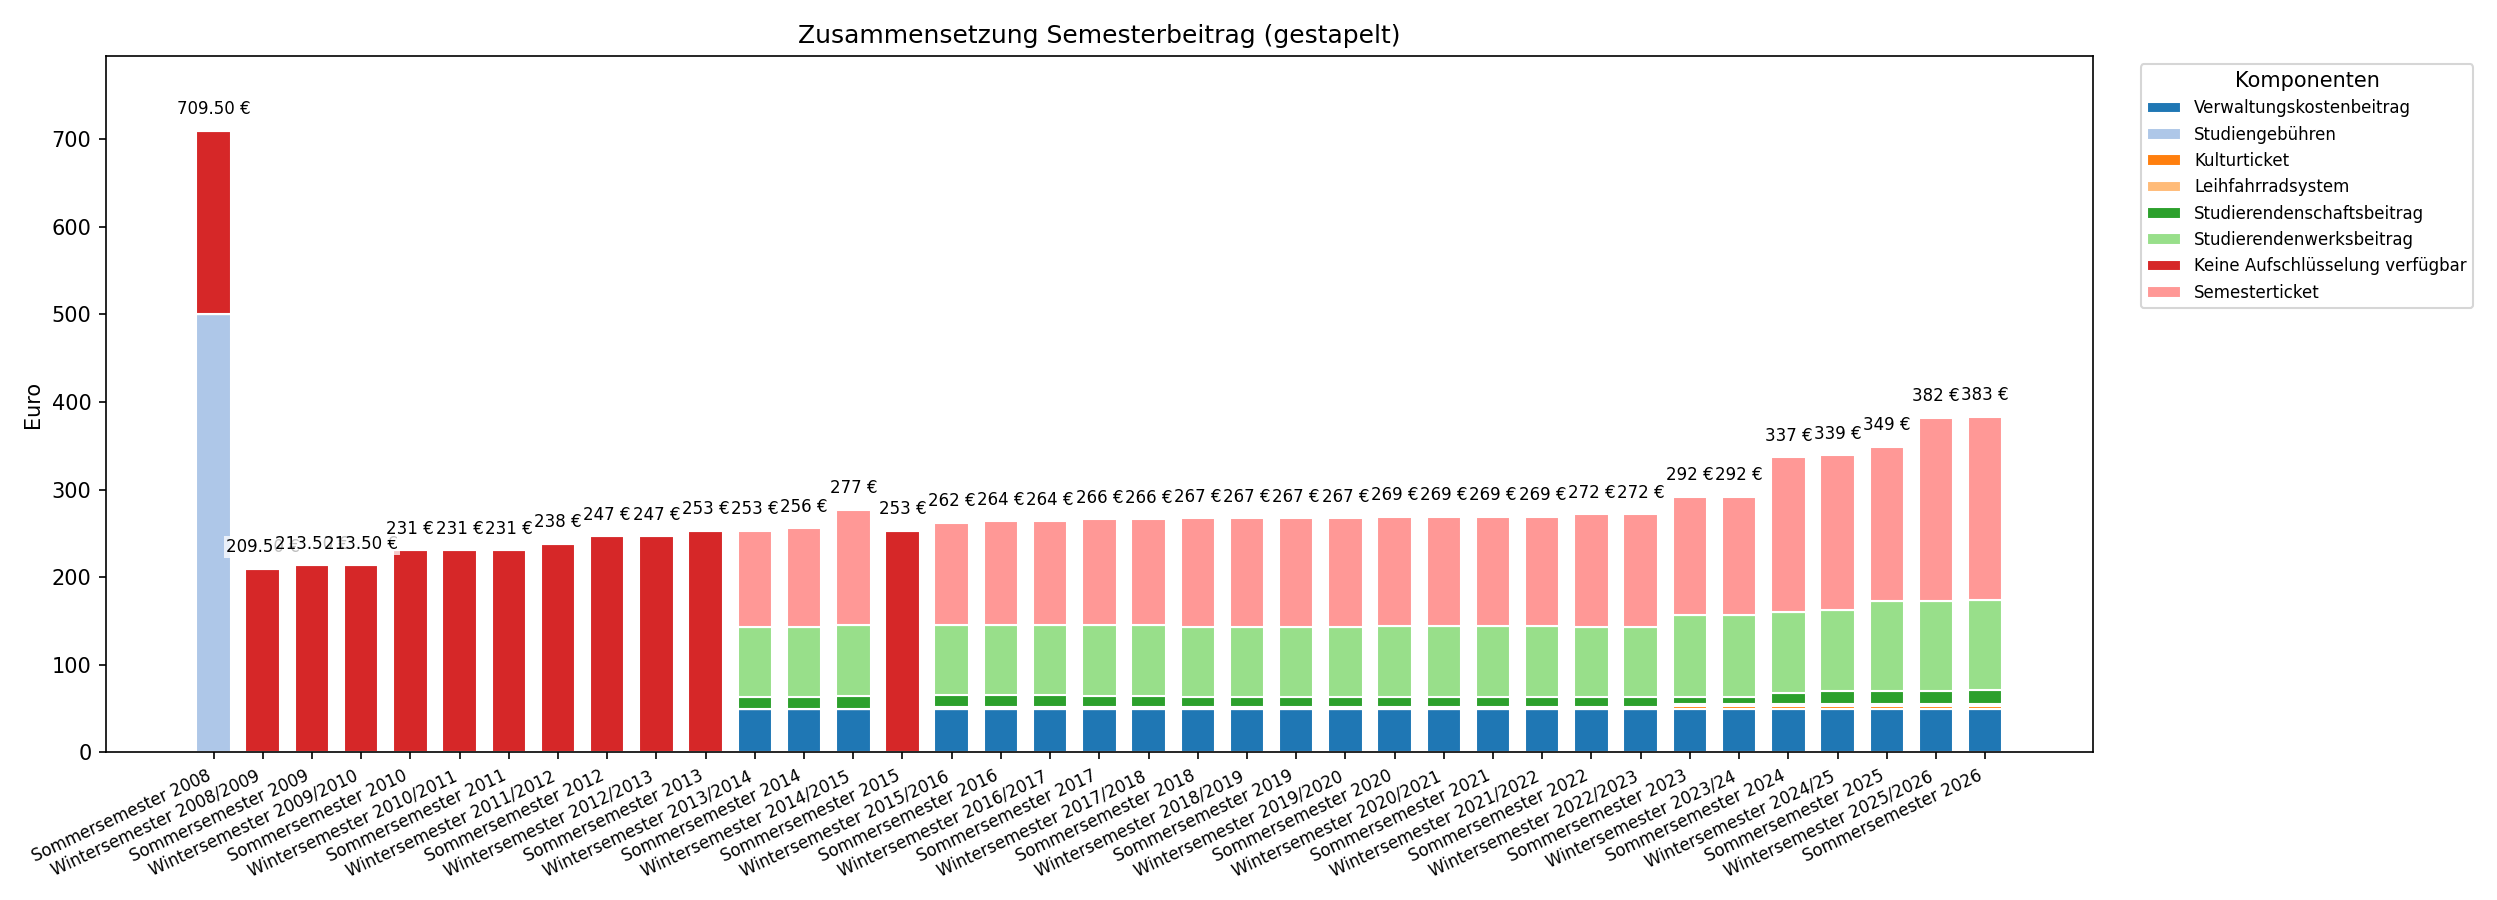
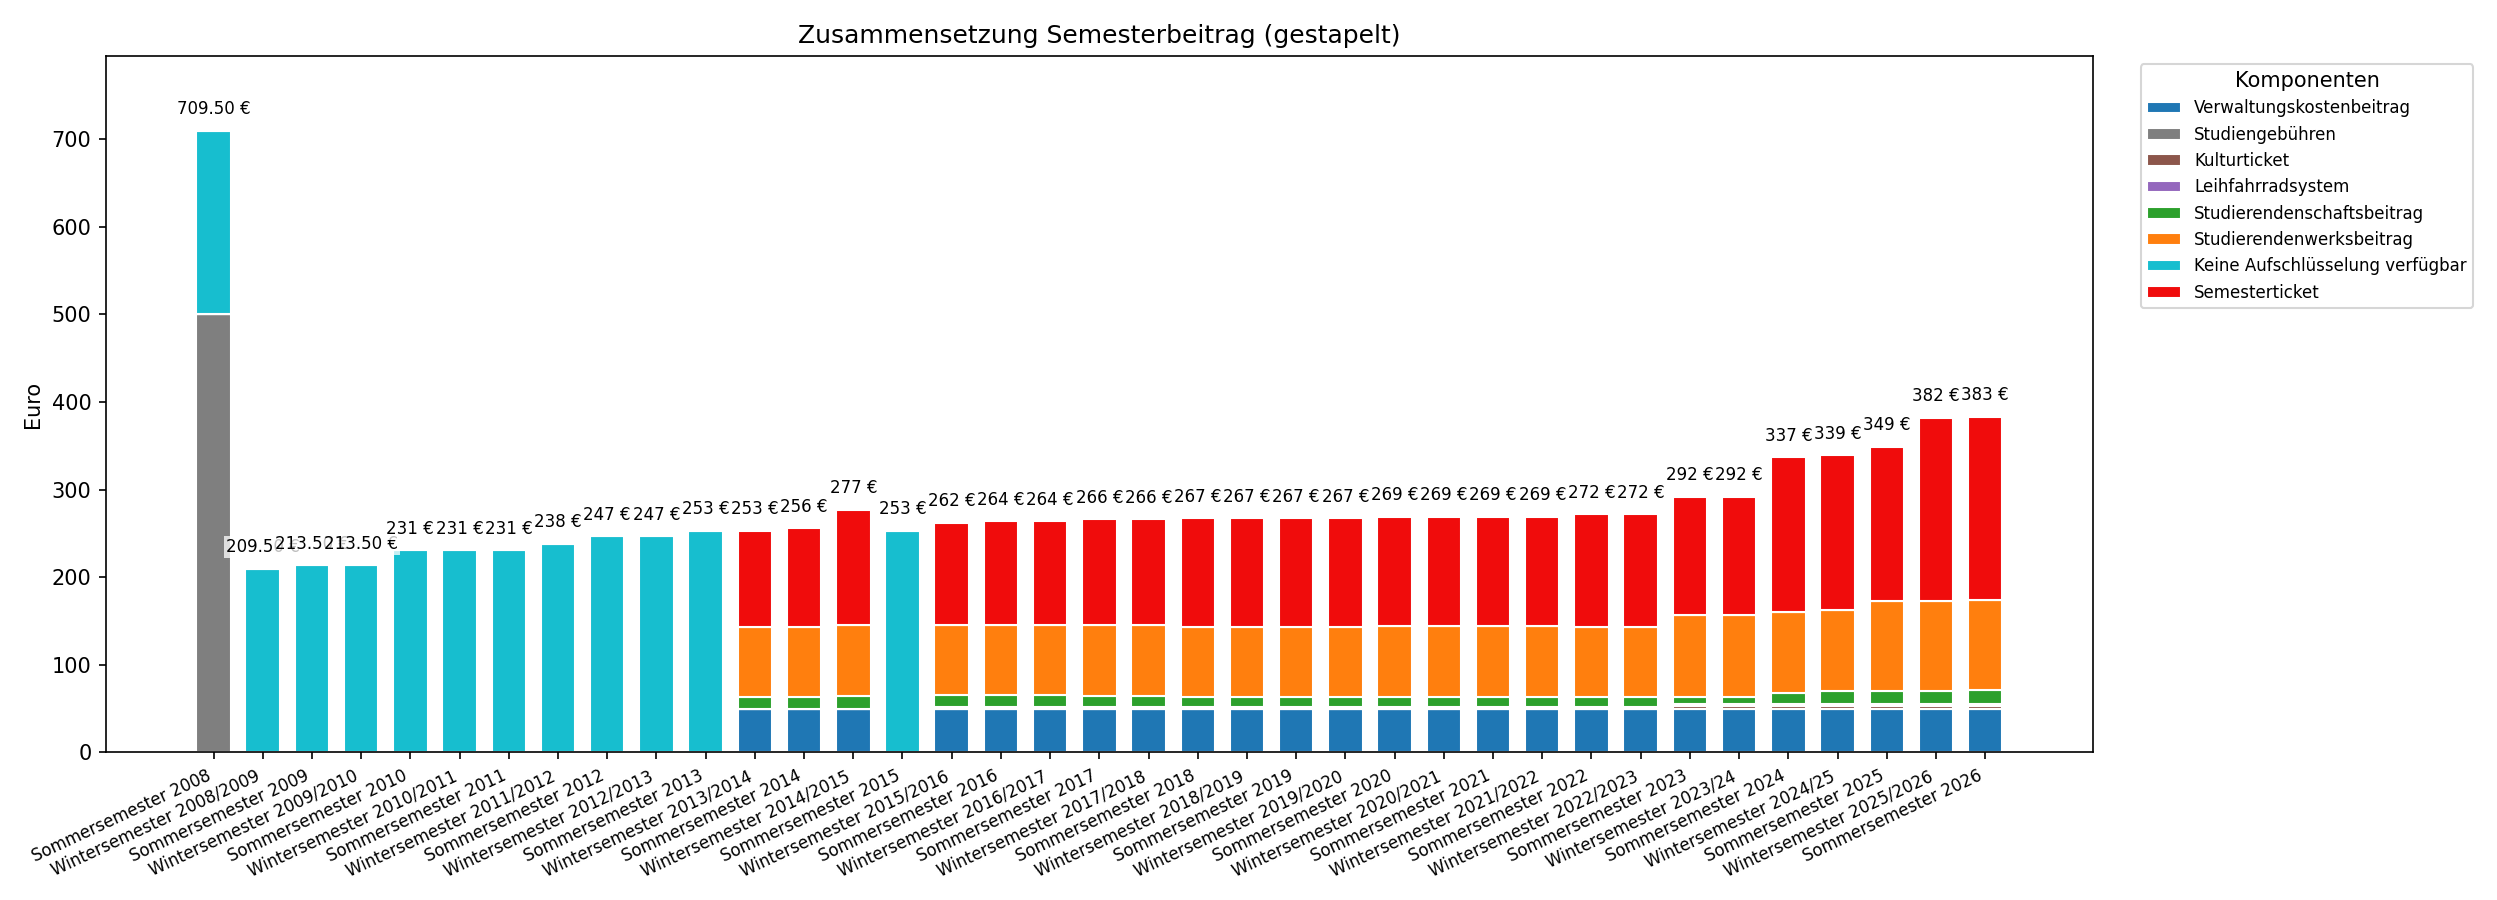
add color mapping for components in plots edit readme rename main file

Changed region(s): [[0.0625, 0.1244, 0.8122, 0.84], [0.8434, 0.2489, 0.8746, 0.3422], [0.8434, 0.1244, 0.8746, 0.2178]]

diff --git a/generate_plot.py b/generate_plot.py
@@ -2,7 +2,6 @@ import os
 import json
 import re
 import matplotlib.pyplot as plt
-import itertools
 from datetime import datetime
 
 OUT_DIR = os.path.join(os.path.dirname(__file__), "data")
@@ -10,6 +9,28 @@ HISTORY_PATH = os.path.join(OUT_DIR, "history.json")
 PNG_PATH = os.path.join(OUT_DIR, "semester_plot.png")
 
 EPSILON = 1e-9
+
+COMPONENT_COLORS = {
+    # Hauptelemente mit Aufschlüsselung
+    "Semesterticket": "#f00c0c",  # rot
+    "Studierendenwerksbeitrag": "#ff7f0e",  # orange
+    "Studierendenschaftsbeitrag": "#2ca02c",  # grün
+    "Verwaltungskostenbeitrag": "#1f77b4",  # blau
+    "Leihfahrradsystem": "#9467bd",  # lila
+    "Kulturticket": "#8c564b",  # braun
+
+    # Sonstige / historische Posten
+    "Studiengebühren": "#7f7f7f",  # grau
+    "Keine Aufschlüsselung verfügbar": "#17becf",  # türkis
+}
+
+
+def get_color_for_component(name: str):
+    try:
+        return COMPONENT_COLORS[name]
+    except KeyError:
+        raise KeyError(f"Unbekannte Komponente ohne definierte Farbe: {name!r}. "
+                       f"Bitte eine Farbe in COMPONENT_COLORS hinterlegen.")  # bewusstes Abbrechen
 
 
 def safe_num(v):
@@ -100,7 +121,6 @@ def build_table(entries):
         rows.append({"label": name, "comps": comp_map, "raw": e})
 
     # Bestimme Komponentenreihenfolge anhand von Stabilität (Varianz) und Häufigkeit
-    components_order = []
     if all_names:
         total_rows = max(1, len(rows))
         stats = []
@@ -166,7 +186,7 @@ def format_euro(v):
         return f"{v} €"
 
 
-def plot_and_save(labels, totals, stack_values, components_order, missing_flags):
+def plot_and_save(labels, totals, stack_values, components_order):
     if not labels:
         print("Keine Daten zum Plotten gefunden.")
         return
@@ -176,13 +196,11 @@ def plot_and_save(labels, totals, stack_values, components_order, missing_flags)
 
     plt.figure(figsize=(max(10, len(labels) * 0.45), 6))
     ax = plt.gca()
-    colors = plt.get_cmap("tab20").colors
-    color_cycle = itertools.cycle(colors)
 
     bottom = [0] * len(labels)
     for comp in components_order:
         vals = stack_values[comp]
-        color = next(color_cycle)
+        color = get_color_for_component(comp)
         ax.bar(x, vals, bottom=bottom, color=color, label=comp, edgecolor='white', width=0.7)
         bottom = [bottom[i] + vals[i] for i in range(len(bottom))]
 
@@ -234,7 +252,7 @@ def main():
     entries = load_entries()
     labels, rows, components_order = build_table(entries)
     totals, stack_values, missing_flags = totals_and_stacks(labels, rows, components_order)
-    plot_and_save(labels, totals, stack_values, components_order, missing_flags)
+    plot_and_save(labels, totals, stack_values, components_order)
 
 
 if __name__ == "__main__":

diff --git a/README.md b/README.md
@@ -2,28 +2,15 @@
 
 ![Semesterbeitrag](data/semester_plot.png)
 
-Kurzbeschreibung
-- Dieses Repo scrapt automatisch die Seite der Hochschule Darmstadt (Semesterbeitrag) und speichert:
-  - data/history.json — Zeitreihe (wichtigste Datei)
-  - data/latest.json — Komfort (wird nur aktualisiert, wenn sich Inhalt ändert)
-  - data/<semester-slug>.json — pro Semester (Komfort, wird nur angelegt/überschrieben bei Änderung)
+#### Kurzbeschreibung
+- Scraper für die Semesterbeiträge der Hochschule Darmstadt.
+- Speichert:
+  - data/history.json — Zeitreihe
   - data/semester_plot.png — generierte Visualisierung
 
-Wichtiges Verhalten
-- Pipeline läuft monatlich (cron) und ist manuell triggerbar.
-- Commit im Repo erfolgt nur, wenn sich tatsächliche Daten geändert haben (history/ per-semester/ latest werden nur bei relevantem Unterschied geschrieben). Dadurch werden unnötige Commits vermieden.
 
-Lokal ausführen
-1. Python 3.11, Abhängigkeiten installieren:
-   pip install -r requirements.txt
-2. Scraper:
-   python scraper/scrape_semesterbeitrag.py
-3. Grafik erzeugen:
-   python main.py
-4. Ergebnisse: siehe `data/`
+#### - Hinweise:
 
-Hinweis zur Darstellung
-- Das README zeigt die im Repo gespeicherte Bilddatei `data/semester_plot.png`. Die GitHub Actions aktualisieren diese Bilddatei — das README zeigt automatisch die neueste Version nach Push.
-
-Lizenz & Haftung
-- Nur ein persönliches Projekt; bitte respektiere die Nutzungsbedingungen der Zielseite beim Scrapen.
+- Das Plot wird automatisch durch die Pipeline aktuell gehalten; ältere Aufteilungen des Semesterbeitrags stammen aus archive.org.
+- Teile dieses Repos wurden mit KI-gestützten Tools erstellt.
+- Gerne Issues oder Pull Requests einreichen
